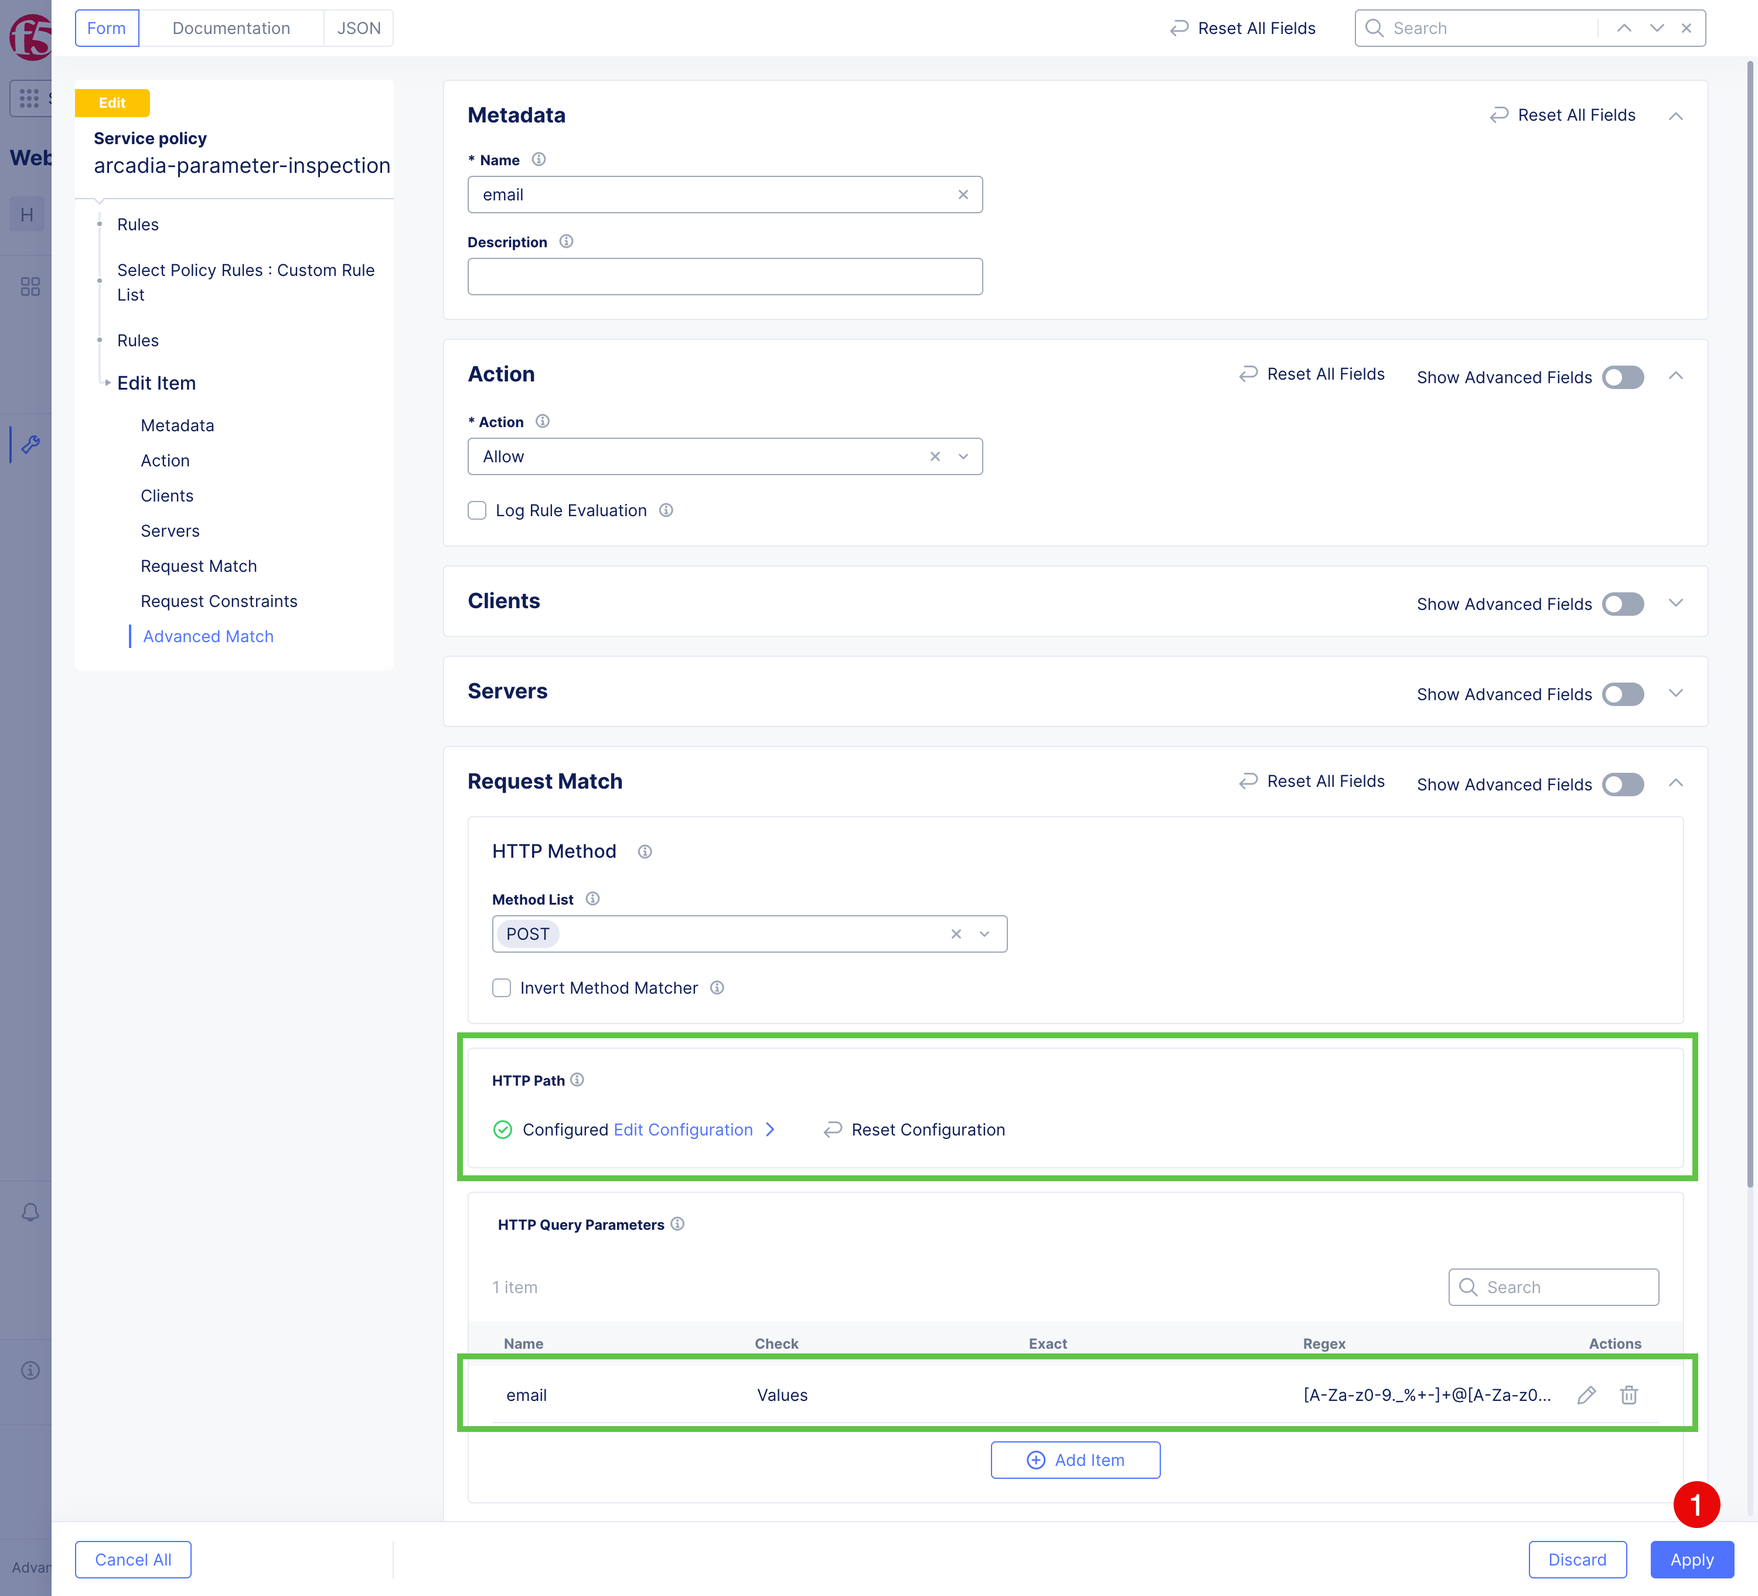
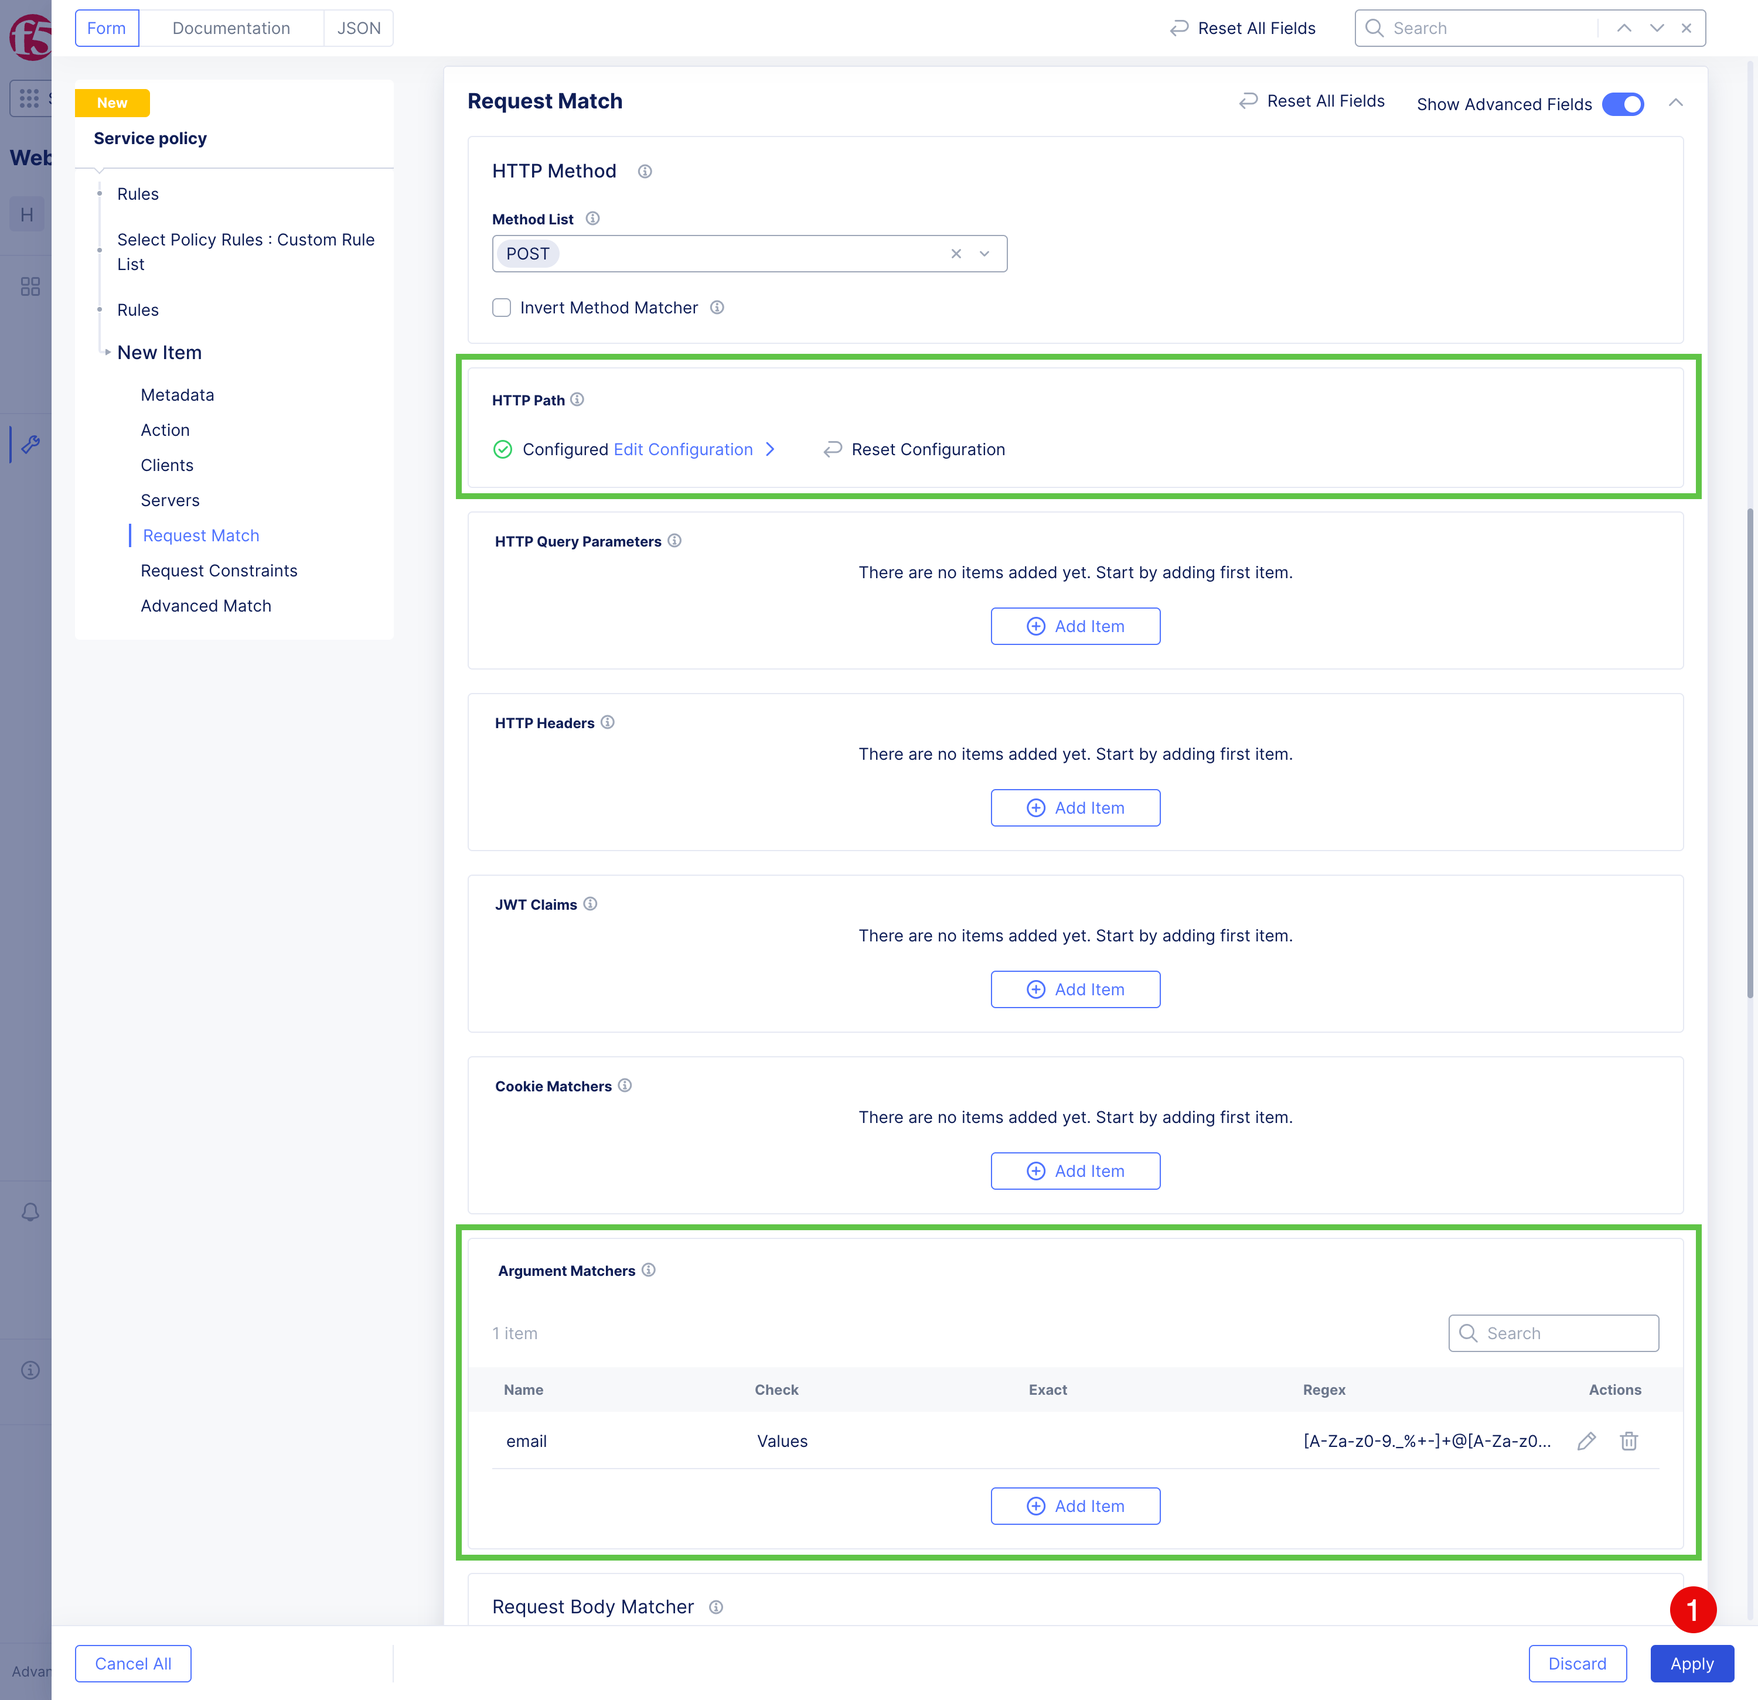
docs: update service policy workshop labs

diff --git a/class1/module3/lab1/lab1.rst b/class1/module3/lab1/lab1.rst
@@ -12,7 +12,7 @@ In this lab, you will configure the following behavior for **POST /v1/login**:
 Default Allow Service Policy
 ============================
 
-1. In the F5 Distributed Cloud Console, navigate to **Web App & API Protection > Service Policies (1) > Service Policies (2) ** and click **Add Service Policy (3)**.   
+1. In the F5 Distributed Cloud Console, navigate to **Web App & API Protection > Service Policies (1) > Service Policies (2)** and click **Add Service Policy (3)**.
 
    .. image:: ../pictures/sp-add.png
       :align: center
@@ -22,12 +22,12 @@ Default Allow Service Policy
    .. table::
       :widths: auto
 
-      =========================  ==================
-      Object                     Value
-      =========================  ==================
+      =============================  ==================
+      Object                         Value
+      =============================  ==================
       **Name (1)**                   default-allow
       **Select Policy Rules (2)**    Allow All Requests
-      =========================  ==================  
+      =============================  ==================
 
    .. image:: ../pictures/sp-default-allow-all.png
       :align: center
@@ -40,7 +40,7 @@ The **arcadia-parameter-inspection** service policy contains both login rules. T
 Create the Policy and Allow Rule
 --------------------------------
 
-1. Click **Add Service Policy**. Enter **arcadia-parameter-inspection** for **Name (1)**, in **Rules** section, near **Custom Rule List**, and click **Configure (2)**.
+1. Click **Add Service Policy**. Enter **arcadia-parameter-inspection** for **Name (1)**. In the **Rules** section, next to **Custom Rule List**, click **Configure (2)**.
 
    The screenshot highlights the policy name, **Custom Rule List**, and the **Configure** control used to open the rule list.
 
@@ -61,23 +61,30 @@ Create the Policy and Allow Rule
       Object               Value
       ===================  =============
       **Name (1)**         email
-      **Action (2) **      Allow
+      **Action (2)**       Allow
       **HTTP Method (3)**  POST
       ===================  =============
 
-   Under **Request Match** sectopn, click **Configure (4)** for **HTTP Path**.
+   In the **Request Match** section, click **Configure (4)** for **HTTP Path**.
 
-   The numbered callouts identify the rule name, **Allow** action, **POST** method, **HTTP Path** configuration control, and **HTTP Query Parameters > Add Item** control.
+   The numbered callouts identify the rule name, **Allow** action, **POST** method, **HTTP Path** configuration control, and **Argument Matchers > Add Item** control.
 
    .. image:: ../pictures/sp-parameter-details-3.png
       :align: center
 
-4. In the appeared dialog, under **Prefix Values**, click **Add Item (1)**, enter **/v1/login** **(2)**, and click **Apply (3)**.   
+4. In the dialog that appears, under **Prefix Values**, click **Add Item (1)**, enter **/v1/login (2)**, and click **Apply (3)**.
 
    .. image:: ../pictures/sp-parameter-details-4.png
       :align: center
 
-5. The **HTTP path** dialog will close. Click **Add Item (5)** under **HTTP Query Parameters**. Configure the query parameter matcher with these values:
+5. The **HTTP Path** dialog closes. Click **Show Advanced Fields (5)** in the **Request Match** section.
+
+6. In the expanded section, locate **Argument Matchers** and click **Add Item (1)**. For POST requests, parameters extracted from the JSON body are evaluated by **Argument Matchers**.
+
+   .. image:: ../pictures/sp-parameter-details-5.png
+      :align: center
+
+7. Specify **Argument Name (1)** and click **Add Item (2)**. Configure the argument matcher with the following values:
 
    .. table::
       :widths: auto
@@ -85,21 +92,21 @@ Create the Policy and Allow Rule
       ======================================  =================================================
       Object                                  Value
       ======================================  =================================================
-      **Query Parameter Name (1)**                email      
-      **Regex Values (3) **                        [A-Za-z0-9._%+-]+@[A-Za-z0-9.-]+\.[A-Za-z]{2,}      
+      **Argument Name (1)**                   email
+      **Regex Values (3)**                    [A-Za-z0-9._%+-]+@[A-Za-z0-9.-]+\.[A-Za-z]{2,}
       ======================================  =================================================
 
-   Click **Apply (4)** to save the query parameter matcher.   
+   Click **Apply (4)** to save the argument matcher.
 
-   .. image:: ../pictures/sp-parameter-details-5.png
+   .. image:: ../pictures/sp-parameter-details-5a.png
       :align: center
 
-6. Verify that **HTTP Path** is configured and that the **HTTP Query Parameters** table contains the **email** matcher. Click **Apply (1)** to save the rule.
+8. Verify that **HTTP Path** is configured and that the **Argument Matchers** table contains the **email** matcher. Click **Apply (1)** to save the rule.
 
    .. image:: ../pictures/sp-parameter-details-6.png
       :align: center
 
-7. The **email** rule is first in the **Rules** list. Click **Add Item** to create the fallback deny rule.   
+9. The **email** rule is first in the **Rules** list. Click **Add Item** to create the fallback deny rule.
 
    .. image:: ../pictures/sp-parameter-details-7.png
       :align: center
@@ -115,18 +122,19 @@ Add the Fallback Deny Rule
       ===================  =============
       Object               Value
       ===================  =============
-      **Name (1)**             deny-others
-      **Action (2)**           Deny
-      **HTTP Method (3)**      POST
+      **Name (1)**         deny-others
+      **Action (2)**       Deny
+      **HTTP Method (3)**  POST
       ===================  =============
 
-   Under **HTTP Path**, click **Configure**, add **/v1/login** to **Prefix Values**, and click **Apply**. Do not add an HTTP query parameter matcher to this rule. Click **Apply (5)** to save the rule.
+   Under **HTTP Path**, click **Configure**, add **/v1/login** to **Prefix Values**, and click **Apply**. Do not add an argument matcher to this rule. Click **Apply (5)** to save the rule.
 
    .. image:: ../pictures/sp-parameter-details-8.png
       :align: center
 
-Verify the rule order
+Verify the Rule Order
 ---------------------
+
 1. The order of the rules is important. The **arcadia-parameter-inspection** service policy must contain the following rules in this order:
 
    1. **email** — allows matching login requests.
@@ -137,13 +145,14 @@ Verify the rule order
    .. image:: ../pictures/sp-parameter-details-9.png
       :align: center      
 
-Click **Apply (1)** to return to the service policy form
+2. Click **Apply (1)** to return to the service policy form.
 
-2. Click **Add Service Policy (1)** to save the service policy.
-    .. image:: ../pictures/sp-parameter-details-10.png
-       :align: center
+3. Click **Add Service Policy (1)** to save the service policy.
 
-4. On the **Service Policies** page, verify that both **arcadia-parameter-inspection** and **default-allow** are listed. The **Rule Count** for **arcadia-parameter-inspection** should be **2**.    
+   .. image:: ../pictures/sp-parameter-details-10.png
+      :align: center
 
-    .. image:: ../pictures/sp-res.png
-       :align: center
+4. On the **Service Policies** page, verify that both **arcadia-parameter-inspection** and **default-allow** are listed. The **Rule Count** for **arcadia-parameter-inspection** should be **2**.
+
+   .. image:: ../pictures/sp-res.png
+      :align: center

diff --git a/class1/module3/lab2/lab2.rst b/class1/module3/lab2/lab2.rst
@@ -1,60 +1,33 @@
-Test Before Applying the Service Policies
-=========================================
+Test the Application Before Enabling the WAF Rules
+##################################################
 
-10. Before applying the service policies, send test requests to record the application's current behavior.
+Before enabling the WAF rules in F5 Distributed Cloud (F5 XC), send test requests to establish a baseline for the application's behavior. Because the WAF rules are not yet enabled, the responses in this section come directly from the application.
 
-a. Send a login request containing a valid email address. The request is expected to succeed.
+
+In the UDF environment, locate the **Client (1)** component. Click **Access**, and then click **Web Shell (2)** to open a terminal.
+
+.. image:: ../pictures/udf-client-webshell.png
+   :align: center
+
+Run the following commands:
+1. Send a login request with valid credentials. The application is expected to accept the request.
 
    .. code-block:: none
 
       curl \
         -H "Content-Type: application/json;charset=UTF-8" \
         --data-raw '{"email":"satoshi@bitcoin.com","password":"bitcoin"}' \
-        http://arcadia-re-$$makeId$$.workshop.emea.f5se.com/v1/login
+        http://$$namespace$$.spec-core.f5se.com/v1/login
 
-b. Send a login request containing an invalid email value. The login is expected to fail at the application, but F5 Distributed Cloud Services will not block the request because the service policies have not yet been applied.
+   The application returns a successful login response that includes an assigned JWT.
+
+2. Send a login request with an invalid email value.
 
    .. code-block:: none
 
       curl \
         -H "Content-Type: application/json;charset=UTF-8" \
         --data-raw '{"email":"11223344","password":"bitcoin"}' \
-        http://arcadia-re-$$makeId$$.workshop.emea.f5se.com/v1/login
+        http://$$namespace$$.spec-core.f5se.com/v1/login
 
-
-Apply the Service Policies
-==========================
-
-11. Apply the **service policies** to the **HTTP load balancer**.
-
-a. Navigate to **Web App & API Protection > Load Balancers > HTTP Load Balancer**. Open the actions menu for **arcadia-re-lb**, click **Manage Configuration > Edit Configuration**, and configure the following value:
-
-
-   .. table::
-      :widths: auto
-
-      ==================================    ========================================================================================
-      Object                                Value
-      ==================================    ========================================================================================
-      **Service Policies**                  Apply Specified Service Policies
-      ==================================    ========================================================================================
-
-b. Under **Policies**, click **Configure > Add Item**. Add the policies in the following order, click **Apply**, and then click **Save and Exit**:
-
-   .. table::
-      :widths: auto
-
-      ==================================    ========================================================================================
-      Object                                Value
-      ==================================    ========================================================================================
-      **First policy**                      $$namespace$$/arcadia-parameter-inspection
-
-      **Second policy**                     $$namespace$$/arcadia-login-deny
-
-      **Third policy**                      $$namespace$$/default-allow
-      ==================================    ========================================================================================
-
-
-   .. raw:: html   
-
-      <script>c1m3l1c();</script>
+   The application returns a failed login response. F5 XC does not block this request because the WAF rules are not yet enabled.

diff --git a/class1/module3/lab3/lab3.rst b/class1/module3/lab3/lab3.rst
@@ -1,36 +1,46 @@
 Apply the Service Policies
-==========================
+##########################
 
-11. Apply the **service policies** to the **HTTP load balancer**.
-
-a. Navigate to **Web App & API Protection > Load Balancers > HTTP Load Balancer**. Open the actions menu for **arcadia-re-lb**, click **Manage Configuration > Edit Configuration**, and configure the following value:
+In order to protect the Arcadia application, apply the created service policies to the **arcadia-crypto-lb** HTTP load balancer.
 
 
-   .. table::
-      :widths: auto
+1. Navigate to **Web App & API Protection > Load Balancers (1) > HTTP Load Balancer (2)**. Click the **... (3)** button for **arcadia-crypto-lb**.
 
-      ==================================    ========================================================================================
-      Object                                Value
-      ==================================    ========================================================================================
-      **Service Policies**                  Apply Specified Service Policies
-      ==================================    ========================================================================================
-
-b. Under **Policies**, click **Configure > Add Item**. Add the policies in the following order, click **Apply**, and then click **Save and Exit**:
-
-   .. table::
-      :widths: auto
-
-      ==================================    ========================================================================================
-      Object                                Value
-      ==================================    ========================================================================================
-      **First policy**                      $$namespace$$/arcadia-parameter-inspection
-
-      **Second policy**                     $$namespace$$/arcadia-login-deny
-
-      **Third policy**                      $$namespace$$/default-allow
-      ==================================    ========================================================================================
+   .. image:: ../pictures/lb-list.png
+      :align: center
 
 
-   .. raw:: html   
+2. Click **Manage Configuration (1)**.
 
-      <script>c1m3l1c();</script>
+   .. image:: ../pictures/lb-manage-config.png
+      :align: center
+
+3. Click **Edit Configuration (1)**.
+
+   .. image:: ../pictures/lb-edit-config.png
+      :align: center
+
+4. Navigate to the **Common Security Controls (1)** section.
+
+   .. image:: ../pictures/lb-common-security-controls.png
+      :align: center
+
+5. Select **Apply Specified Service Policies (1)** for **Service Policies**, and click the **Configure (2)** link.
+
+   .. image:: ../pictures/lb-enable-service-policy.png
+      :align: center
+
+
+6. Click **Add Item (1)**, select ``$$namespace$$/arcadia-parameter-inspection`` for **(2)** and ``$$namespace$$/default-allow`` for **(3)**. Click **Apply (4)**.
+
+   .. image:: ../pictures/lb-enable-service-policy-2.png
+      :align: center
+
+.. warning::
+   Make sure that the order of policies is correct, the **arcadia-parameter-inspection** policy should be first and the **default-allow** policy should be second.
+
+
+7. Click **Save HTTP Load Balancer (1)**.
+
+   .. image:: ../pictures/lb-enable-service-policy-save.png
+      :align: center

diff --git a/class1/module3/lab4/lab4.rst b/class1/module3/lab4/lab4.rst
@@ -1,25 +1,30 @@
-Lab 2 - Testing
-###############
+Test the Application After Enabling the WAF Rules
+##################################################
 
 1. Let's see what have changed first let's make sure the good login is working
 
    .. code-block:: none
-
       curl \
         -H "Content-Type: application/json;charset=UTF-8" \
         --data-raw '{"email":"satoshi@bitcoin.com","password":"bitcoin"}' \
-        http://arcadia-re-$$makeId$$.workshop.emea.f5se.com/v1/login
-
-
+        http://$$namespace$$.spec-core.f5se.com/v1/login
 
 2. Now let's do the same but with the invalid email parameter. This time the request will get blocked.
 
    .. code-block:: none
-
       curl \
         -H "Content-Type: application/json;charset=UTF-8" \
         --data-raw '{"email":"11223344","password":"bitcoin"}' \
-        http://arcadia-re-$$makeId$$.workshop.emea.f5se.com/v1/login
+        http://$$namespace$$.spec-core.f5se.com/v1/login
 
+The response will be a 403 Forbidden error with the message like the following:
 
-We just have been able to demonstrate that F5 XC is not just a basic Web Application Firewall but also has also advanced **Positive Security Policy** capabilities which greatly enhance the security of the application.
+   .. code-block:: none
+      <html><head><title>Error Page</title></head>
+      <body>
+      The requested URL was rejected. Please consult with your administrator.<br/><br/>
+      Your support ID is 78928f6d-f0cb-4ffa-abc5-4191586d3a68
+      <h2>Error 403 - Forbidden</h2>F5 site: wes-sea<br/><br/>
+      <a href='javascript:history.back();'>[Go Back]</a>
+      </body>
+      </html>
